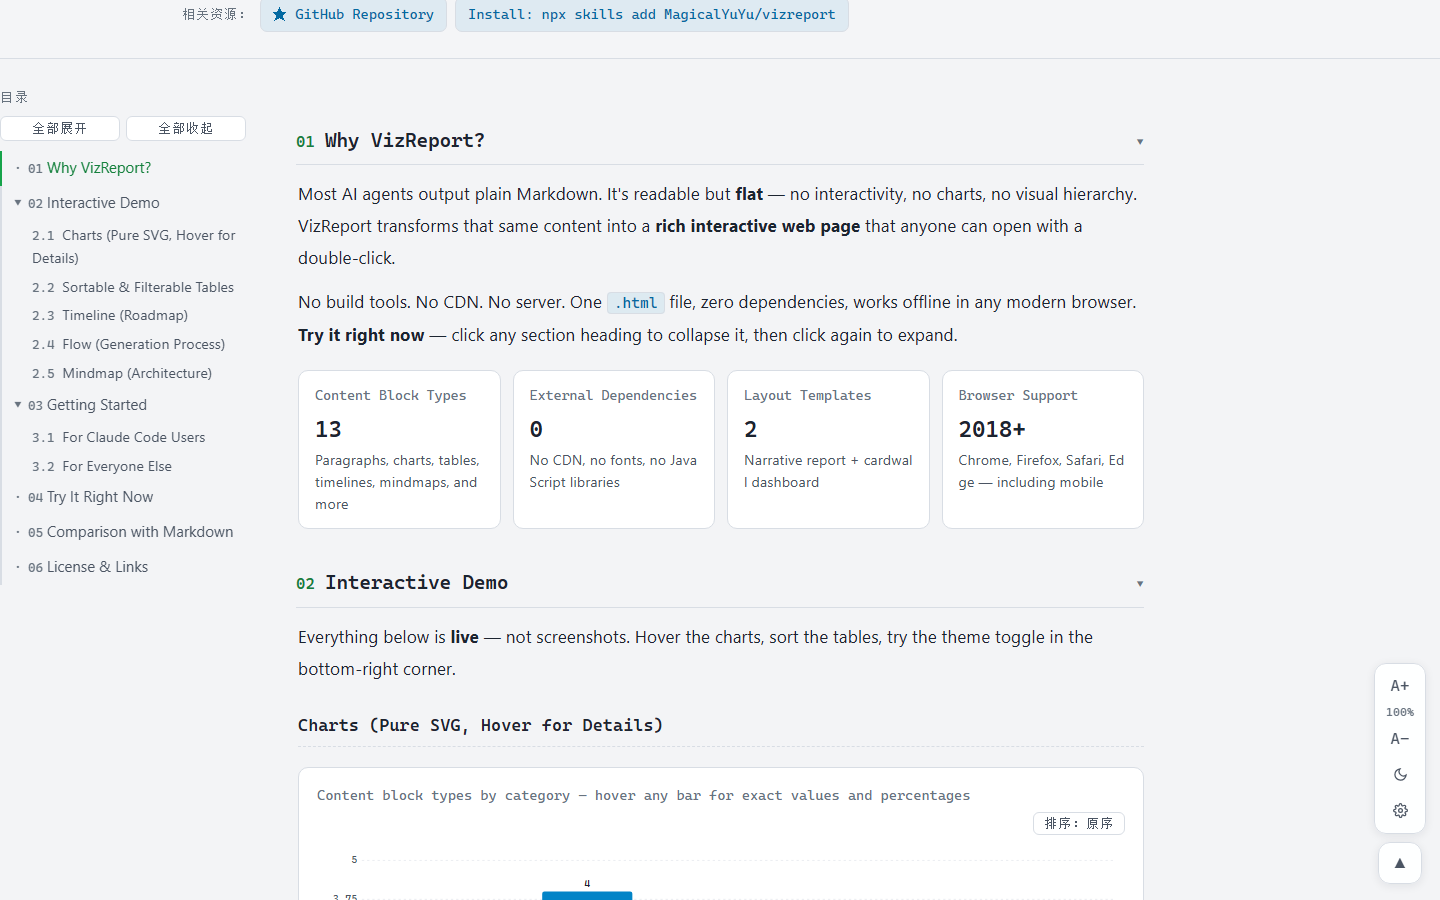
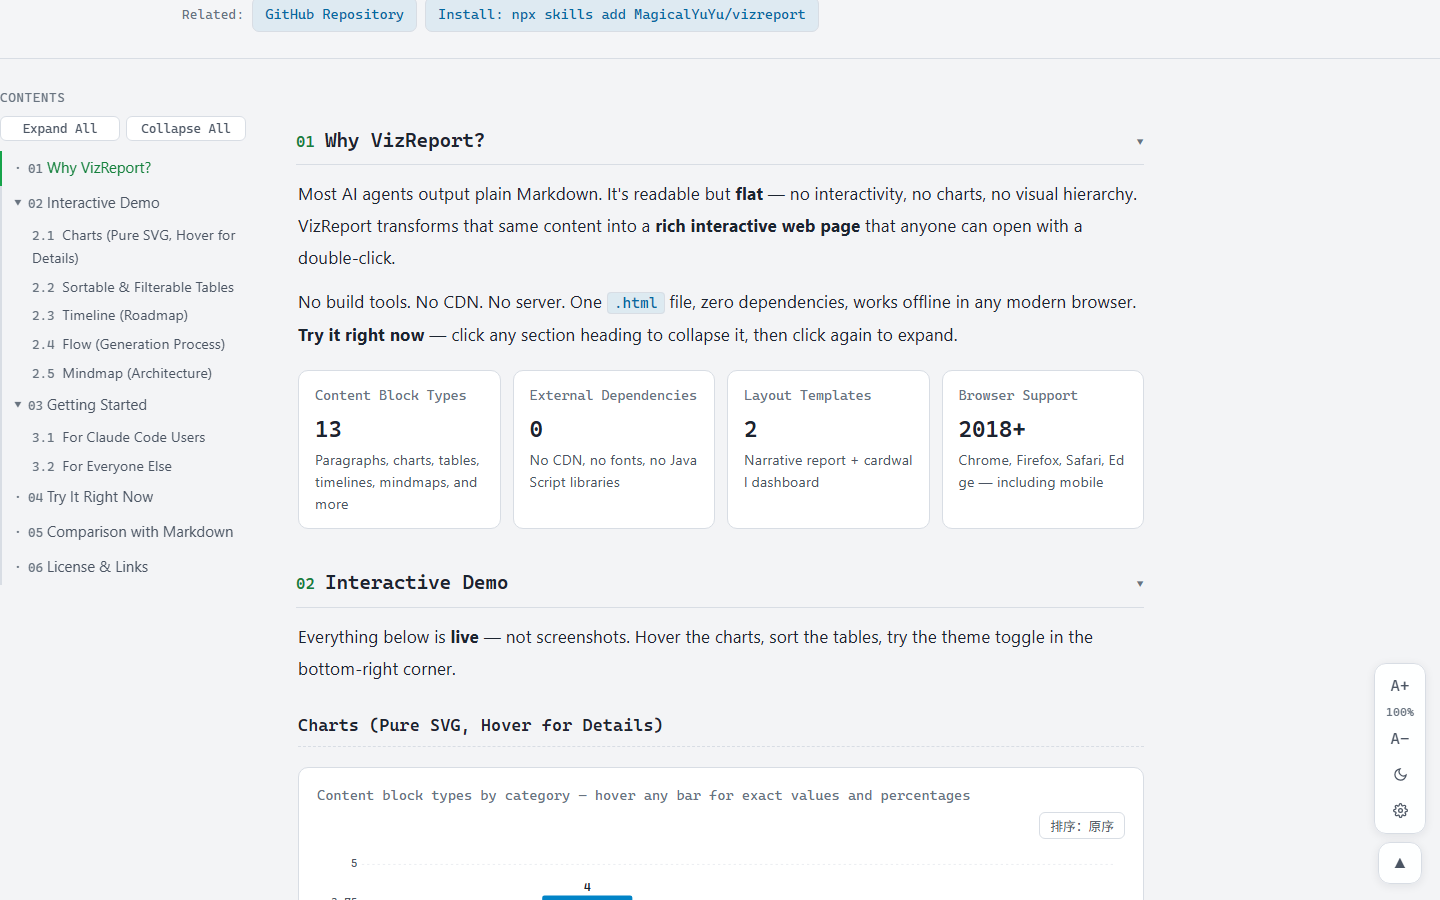
i18n: comprehensive English UI for showcase + social preview verified + README centered + GIF regenerated

diff --git a/docs/index.html b/docs/index.html
@@ -196,8 +196,8 @@ body.lay-side .toc{position:static;max-height:none;overflow:visible;border:1px s
 .rpt-chart .tools button:hover{color:var(--text)}
 .rpt-chart .axis{stroke:var(--border);stroke-width:1}
 .rpt-chart .gridline{stroke:var(--border);stroke-width:1;stroke-dasharray:3 4;opacity:.7}
-.rpt-chart .vlab,.rpt-chart .xlab{fill:var(--muted);font-size:14px}
-.rpt-chart .cval{fill:var(--text);font-size:14px;font-weight:600}
+.rpt-chart .vlab,.rpt-chart .xlab{fill:var(--muted);font-size:15px}
+.rpt-chart .cval{fill:var(--text);font-size:16px;font-weight:600}
 .rpt-chart .legend{display:flex;flex-wrap:wrap;gap:8px 18px;margin-top:12px;font-family:var(--mono);font-size:.82rem;color:var(--muted)}
 .rpt-chart .legend .dot{display:inline-block;width:10px;height:10px;border-radius:3px;margin-right:6px;vertical-align:baseline}
 .chart-tip{position:fixed;z-index:80;pointer-events:none;background:var(--rail-bg);border:1px solid var(--border);border-radius:8px;box-shadow:0 4px 14px rgba(15,23,42,.2);padding:8px 12px;font-family:var(--mono);font-size:.8rem;color:var(--text);max-width:300px;display:none;line-height:1.7}
@@ -349,7 +349,7 @@ footer .fmeta{display:flex;flex-wrap:wrap;gap:8px;margin-top:14px}
     "updated": "2026-11-12",
     "related": [
       {
-        "label": "★ GitHub Repository",
+        "label": "GitHub Repository",
         "href": "https://github.com/MagicalYuYu/vizreport"
       },
       {
@@ -469,38 +469,38 @@ footer .fmeta{display:flex;flex-wrap:wrap;gap:8px;margin-top:14px}
       "head": [
         "Feature",
         "VizReport",
-        "share-html",
-        "html-report-skill",
-        "delivery-dashboard"
+        "Static HTML Templates",
+        "Basic Report Tools",
+        "CDN Chart Tools"
       ],
       "rows": [
         [
-          "Content blocks",
-          "13 types",
-          "Static only",
-          "Static only",
-          "Static only"
+          "Content block types",
+          "13 (charts, timelines, mindmaps...)",
+          "Static paragraphs",
+          "Static paragraphs",
+          "Static paragraphs"
         ],
         [
-          "Charts (SVG)",
-          "bar/hbar/line/donut",
-          "❌",
-          "❌",
-          "ECharts (CDN)"
+          "Charts",
+          "Pure SVG (bar/line/donut), hover tooltips",
+          "None",
+          "None",
+          "ECharts via CDN"
         ],
         [
           "Table sorting",
           "3-state + column filter",
-          "❌",
-          "❌",
-          "❌"
+          "None",
+          "None",
+          "None"
         ],
         [
           "TOC navigation",
-          "Sticky + collapsible + draggable",
-          "❌",
-          "❌",
-          "❌"
+          "Sticky tree + collapsible + draggable",
+          "None",
+          "None",
+          "None"
         ],
         [
           "Themes",
@@ -511,38 +511,31 @@ footer .fmeta{display:flex;flex-wrap:wrap;gap:8px;margin-top:14px}
         ],
         [
           "Offline (no CDN)",
-          "✅",
-          "✅",
-          "❌",
-          "❌"
+          "Yes",
+          "Yes",
+          "No",
+          "No"
         ],
         [
           "QA automation",
           "Playwright 50+ assertions",
-          "❌",
-          "❌",
-          "❌"
-        ],
-        [
-          "Report index",
-          "✅ Auto-generated",
-          "❌",
-          "❌",
-          "GitHub Pages"
+          "None",
+          "None",
+          "None"
         ],
         [
           "Mindmap",
-          "✅ HTML/CSS auto-wrap",
-          "❌",
-          "❌",
-          "❌"
+          "HTML/CSS auto-wrap",
+          "None",
+          "None",
+          "None"
         ],
         [
           "Timeline",
-          "✅ Vertical + states",
-          "❌",
-          "❌",
-          "❌"
+          "Vertical + state colors",
+          "None",
+          "None",
+          "None"
         ]
       ]
     },
@@ -1481,6 +1474,123 @@ footer .fmeta{display:flex;flex-wrap:wrap;gap:8px;margin-top:14px}
   if (meta.source_note) lines += '<div>' + mdLite(meta.source_note) + '</div>';
   $('#footNotes').innerHTML = lines;
   $('#footMeta').innerHTML = '<span class="badge">生成于 ' + new Date().toISOString().slice(0, 10) + '</span>';
+
+
+
+  // ═════════════════════════════════════════════════════════
+  // I18N ENGINE v2: comprehensive post-render language swap
+  // Runs AFTER all rendering. Handles every Chinese UI string.
+  // ═════════════════════════════════════════════════════════
+  var IS_EN = (meta.lang === 'en') || (!meta.lang && (navigator.language || '').toLowerCase().indexOf('zh') < 0);
+  if (IS_EN) {
+    // 1) Walk every text node and replace
+    (function walkAll(root) {
+      var w = document.createTreeWalker(root, NodeFilter.SHOW_TEXT, null, false);
+      var nodes = [];
+      var n;
+      while ((n = w.nextNode())) nodes.push(n);
+      nodes.forEach(function(node) {
+        var t = node.textContent;
+        // Exact replacements
+        var map = {
+          '目录': 'Contents', '全部展开': 'Expand All', '全部收起': 'Collapse All',
+          '阅读设置（全局保存）': 'Reading Settings',
+          '显示': 'Show', '隐藏': 'Hide', '状态': 'Status', '标签': 'Tags',
+          '排序：默认': 'Sort: Default', '评分 ↓': 'Score', '名称 A→Z': 'Name A→Z', '状态分组序': 'Status',
+          '↺ 重置': 'Reset', '↺ 恢复默认': 'Reset', '↺ 清空筛选': 'Clear Filters',
+          '全选': 'Select All', '清空': 'Clear All', '（空）': '(empty)',
+          '已完成': 'Done', '当前': 'Current', '计划': 'Planned', '风险': 'At Risk',
+          '总计': 'Total', '相关资源：': 'Related:',
+          '示例数据 SAMPLE': 'SAMPLE DATA',
+          '没有匹配的条目。': 'No matching entries.',
+          '生成于': 'Generated on',
+          '重置全部偏好与目录位置': 'Reset All Preferences',
+          '正文居中·目录贴邻': 'Centered / TOC Adjacent',
+          '目录+正文整体居中': 'TOC + Content Centered',
+          '正文居中·目录贴屏幕边缘': 'Centered / TOC at Edge',
+          '放大字号': 'Increase font size', '缩小字号': 'Decrease font size',
+          '切换昼夜主题': 'Toggle theme', '阅读设置': 'Settings',
+          '回到顶部': 'Back to top', '页面工具（随时可用）': 'Page tools',
+          '切换到浅色主题': 'Switch to light theme', '切换到深色主题': 'Switch to dark theme',
+          '目录侧栏': 'TOC Sidebar', '章节默认状态': 'Section Default',
+          '全部折叠': 'Collapse All', '布局模式': 'Layout Mode', '正文宽度': 'Content Width',
+          '搜索条目': 'Search entries', '筛选表格行': 'Filter table rows',
+          '点表头排序': 'Click header to sort', '列筛选': 'Column filter',
+          '按值筛选': 'Filter by value', '行': 'rows',
+          '排序：': 'Sort: ', '原序': 'Original', '降序': 'Descending', '升序': 'Ascending',
+          '展开/收起子目录': 'Expand/Collapse',
+          '主题': '主题',
+          '阶段': 'Stage '
+        };
+        if (map[t.trim()]) {
+          node.textContent = node.textContent.replace(t.trim(), map[t.trim()]);
+          return;
+        }
+        // Pattern replacements (badges, counts, etc.)
+        var patterns = [
+          [/^快照\s*(.*)/, 'Snapshot $1'],
+          [/(\d+)\s*个章节/, '$1 sections'],
+          [/(\d+)\s*个内容块/, '$1 blocks'],
+          [/(\d+)\s*个标签/, '$1 tags'],
+          [/(\d+)\s*项条目/, '$1 items'],
+          [/均分\s*([\d.]+)/, 'Avg $1'],
+          [/^显示\s*(\d+)\s*\/\s*(\d+)/, 'Showing $1 / $2'],
+          [/^表：\s*(.*)/, 'Table: $1'],
+          [/（链接已拦截：(.*)）/, '(Link blocked: $1)'],
+          [/：按值筛选/, ': Filter by value'],
+          [/（占\s*(\d+)%，共\s*([\d,]+)）/, ' ($1% of $2)'],
+          [/值：\s*([\d,]+)/, 'Value: $1'],
+          [/偏好经浏览器\s*localStorage\s*全局保存.*$/, 'Preferences saved via localStorage (shared across pages).']
+        ];
+        for (var p = 0; p < patterns.length; p++) {
+          var newT = t.replace(patterns[p][0], patterns[p][1]);
+          if (newT !== t) { node.textContent = newT; break; }
+        }
+      });
+    })(document.body);
+
+    // 2) Replace placeholders
+    document.querySelectorAll('[placeholder]').forEach(function(el) {
+      var p = el.getAttribute('placeholder');
+      if (p.indexOf('搜索') >= 0 || p.indexOf('筛选') >= 0) {
+        el.setAttribute('placeholder', p.indexOf('搜索') >= 0 ? 'Search titles, tags, content... (press /)' : 'Filter rows...');
+      }
+    });
+
+    // 3) Replace select options (settings, sort)
+    document.querySelectorAll('option').forEach(function(opt) {
+      var v = opt.textContent.trim();
+      var optMap = {
+        '显示': 'Show', '隐藏': 'Hide',
+        '全部展开': 'Expand All', '全部折叠': 'Collapse All',
+        '正文居中·目录贴邻': 'Centered / TOC Adjacent',
+        '目录+正文整体居中': 'TOC + Content Centered',
+        '正文居中·目录贴屏幕边缘': 'Centered / TOC at Edge',
+        '排序：默认': 'Sort: Default', '评分 ↓': 'Score', '名称 A→Z': 'Name A→Z', '状态分组序': 'Status'
+      };
+      if (optMap[v]) opt.textContent = optMap[v];
+    });
+
+    // 4) Replace aria-labels and titles
+    document.querySelectorAll('[aria-label],[title]').forEach(function(el) {
+      ['aria-label', 'title'].forEach(function(attr) {
+        var v = el.getAttribute(attr);
+        if (!v) return;
+        var attrMap = {
+          '目录': 'Contents', '放大字号': 'Increase font size', '缩小字号': 'Decrease font size',
+          '切换昼夜主题': 'Toggle theme', '阅读设置': 'Settings', '回到顶部': 'Back to top',
+          '切换到浅色主题': 'Switch to light', '切换到深色主题': 'Switch to dark',
+          '页面工具（随时可用）': 'Page tools', '按此列筛选': 'Filter by this column',
+          '展开/收起子目录': 'Expand/Collapse', '正文宽度像素值': 'Content width in pixels',
+          '筛选表格行': 'Filter table rows', '搜索报告': 'Search reports'
+        };
+        if (attrMap[v]) el.setAttribute(attr, attrMap[v]);
+      });
+    });
+
+    // 5) Update html lang
+    document.documentElement.setAttribute('lang', 'en');
+  }
 
   // ── 回顶 ──
   document.getElementById('backTop').addEventListener('click', function(){

diff --git a/README.md b/README.md
@@ -2,11 +2,11 @@
   <img src="docs/assets/social-preview.png" alt="VizReport" width="100%">
 </p>
 
-# VizReport
+<h1 align="center">VizReport</h1>
 
-**Rich interactive reports. One file. Zero dependencies.**
+<p align="center"><strong>Rich interactive reports. One file. Zero dependencies.</strong></p>
 
-[中文文档](README.zh-CN.md) | [Live Demo](https://magicalyuyu.github.io/vizreport/)
+<p align="center"><sub><a href="README.zh-CN.md">中文文档</a> · <a href="https://magicalyuyu.github.io/vizreport/">Live Demo</a></sub></p>
 
 ---
 
